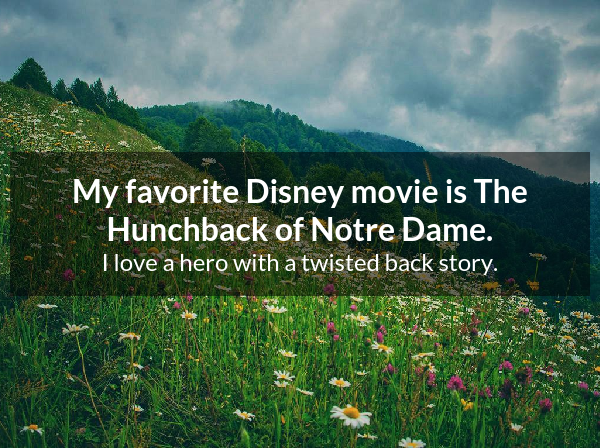
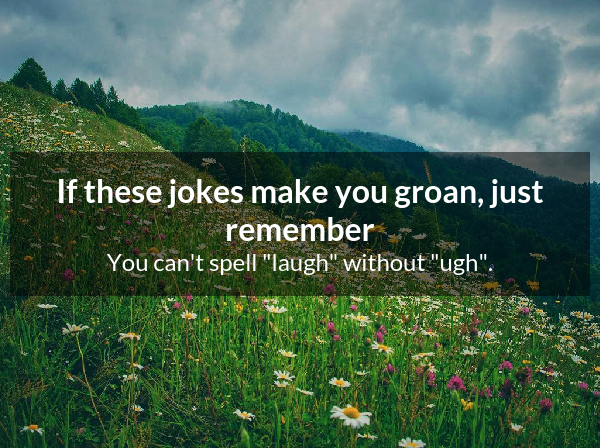
update joke html

Changed region(s): [[0.09, 0.375, 0.9, 0.625]]

diff --git a/assets/html/joke.html b/assets/html/joke.html
@@ -64,8 +64,8 @@
         <body>
             <div class="container">
                 <div class="overlay">
-                    <h1>My favorite Disney movie is The Hunchback of Notre Dame.</h1>
-                    <p class="punchline">I love a hero with a twisted back story.</p>
+                    <h1>If these jokes make you groan, just remember</h1>
+                    <p class="punchline">You can't spell "laugh" without "ugh".</p>
                 </div>
             </div>
         </body>
